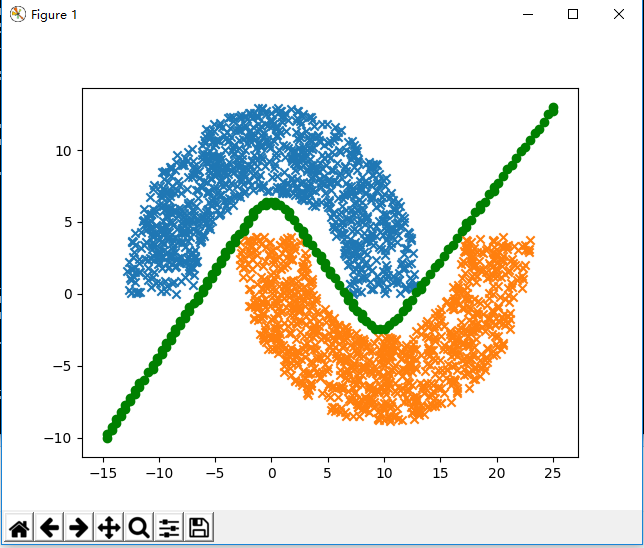
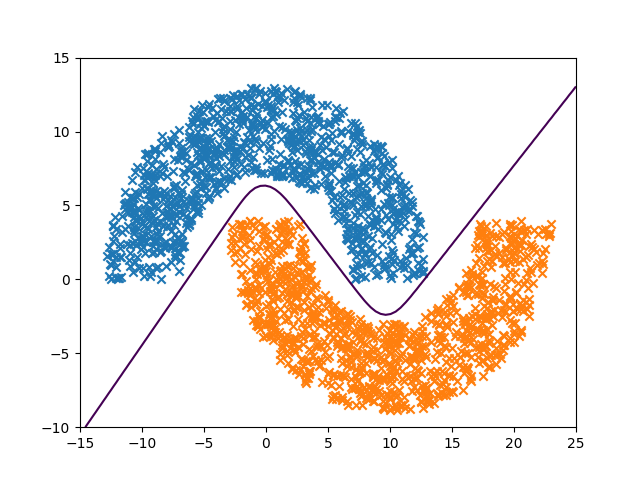
show decision boundaries using contour instead of scatter

diff --git a/backpropagation_helloworld_xor.py b/backpropagation_helloworld_xor.py
@@ -32,12 +32,25 @@ class multilayer_perceptron:
     def sigmoid(self, v):
         return 1 / (1+math.exp(-v))
 
-    def forward(self, x):
+    def predict(self, Xs, Ys):
+        Z = np.zeros(Xs.shape)
+        for i in range(Xs.shape[0]):
+            for j in range(Xs.shape[1]):
+                value = self.forward([1, Xs[i,j], Ys[i, j]])
+                Z[i,j] = value
+        return Z
+
+    def forward(self, x, debug = False):
         for i in range(self.hidden_layers+1):
             for j in range(self.neurons_per_layer):
                 if i == self.hidden_layers and j > 0:
                     break
                 if i == 0:
+                    if debug:
+                        print('type of w[i,j], ', type(self.w[i, j]))
+                        print('type of x,', type(x))
+                        print('type of x[1],', type(x[1]))
+                        print('x: ', x)
                     self.o[i, j] = self.sigmoid(self.w[i, j].dot(x))
                 else:
                     self.o[i, j] = self.sigmoid(self.w[i, j].dot(self.o[i-1]))
@@ -62,17 +75,10 @@ class multilayer_perceptron:
     def show_decision_boundary(self, x_min, x_max, y_min, y_max):
         X1 = np.linspace(x_min, x_max, 100)
         X2 = np.linspace(y_min, y_max, 100)
-        b_x1 = []
-        b_x2 = []
+        X, Y = np.meshgrid(X1, X2)
+        Z = self.predict(X, Y)
 
-        for i in X1:
-            for j in X2:
-                y = self.forward([1, i, j])
-                if abs(y-0.5) < 0.1:
-                    b_x1.append(i)
-                    b_x2.append(j)
-        if len(b_x1) > 0:
-            plt.scatter(b_x1, b_x2, color='g')
+        plt.contour(X, Y, Z, levels=[0.5])
 
 
     def backpropagation(self, X, Y, learning_rate):

diff --git a/moon_backpropagation.py b/moon_backpropagation.py
@@ -96,6 +96,15 @@ class multilayer_perceptron:
             else:
                 return 1
 
+    def predict(self, Xs, Ys):
+        Z = np.zeros(Xs.shape)
+        for i in range(Xs.shape[0]):
+            for j in range(Xs.shape[1]):
+                value = self.forward([1, Xs[i,j], Ys[i, j]])
+                Z[i,j] = value
+        return Z
+
+
     def forward(self, x):
         for i in range(self.hidden_layers+1):
             for j in range(self.neurons_per_layer):
@@ -123,17 +132,10 @@ class multilayer_perceptron:
     def show_decision_boundary(self, x_min, x_max, y_min, y_max):
         X1 = np.linspace(x_min, x_max, 100)
         X2 = np.linspace(y_min, y_max, 100)
-        b_x1 = []
-        b_x2 = []
+        X, Y = np.meshgrid(X1, X2)
+        Z = self.predict(X, Y)
 
-        for i in X1:
-            for j in X2:
-                y = self.forward([1, i, j])
-                if abs(y-0.5) < 0.1:
-                    b_x1.append(i)
-                    b_x2.append(j)
-        if len(b_x1) > 0:
-            plt.scatter(b_x1, b_x2, color='g')
+        plt.contour(X, Y, Z, levels=[0.5])
 
 
     def backpropagation(self, X, Y, learning_rate):
